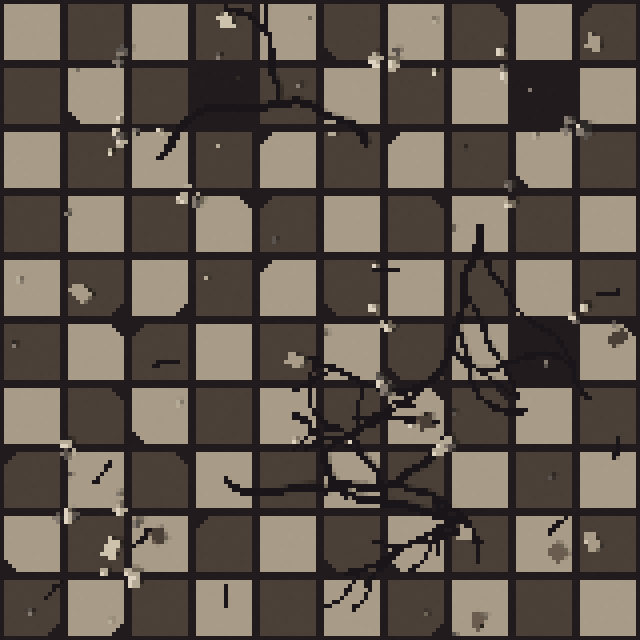
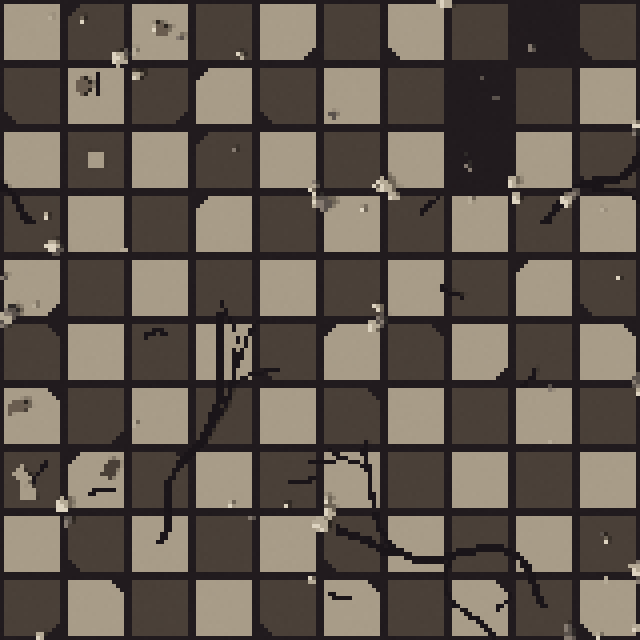
nerfed commanding to use energy based on how many spaces they move, also added quality of life features such as blinking lights for losing energy

diff --git a/mnt_tmp/shrink_debris.py b/mnt_tmp/shrink_debris.py
@@ -1,0 +1,39 @@
+import sys
+from PIL import Image
+SCALE=float(sys.argv[1])
+base=Image.open('mnt_tmp/Ruined_base.png').convert('RGB')
+cur=Image.open('art/skins/boards/Ruined.png').convert('RGB')
+W=160
+diff=[[max(abs(a-b) for a,b in zip(base.getpixel((x,y)),cur.getpixel((x,y))))>24 for x in range(W)] for y in range(W)]
+seen=set(); comps=[]
+for y in range(W):
+  for x in range(W):
+    if diff[y][x] and (x,y) not in seen:
+      st=[(x,y)]; seen.add((x,y)); c=[]
+      while st:
+        p=st.pop(); c.append(p)
+        for dx in (-1,0,1):
+          for dy in (-1,0,1):
+            q=(p[0]+dx,p[1]+dy)
+            if 0<=q[0]<W and 0<=q[1]<W and diff[q[1]][q[0]] and q not in seen: seen.add(q); st.append(q)
+      comps.append(c)
+out=cur.copy()
+for c in comps:
+  if len(c)<=3: continue
+  members=set(c)
+  for p in c: out.putpixel(p, base.getpixel(p))
+  cx=sum(p[0] for p in c)/len(c)+0.5; cy=sum(p[1] for p in c)/len(c)+0.5
+  xs=[p[0] for p in c]; ys=[p[1] for p in c]
+  for y in range(min(ys),max(ys)+1):
+    for x in range(min(xs),max(xs)+1):
+      hits={}
+      for i in range(3):
+        for j in range(3):
+          sx=int((x+(i+0.5)/3-cx)/SCALE+cx); sy=int((y+(j+0.5)/3-cy)/SCALE+cy)
+          if (sx,sy) in members:
+            col=cur.getpixel((sx,sy)); hits[col]=hits.get(col,0)+1
+      if sum(hits.values())>=4: out.putpixel((x,y), max(hits,key=hits.get))
+out.save('mnt_tmp/Ruined_small.png')
+side=Image.new('RGB',(970,480),(255,255,255))
+side.paste(cur.resize((480,480),Image.NEAREST),(0,0)); side.paste(out.resize((480,480),Image.NEAREST),(490,0))
+side.save('mnt_tmp/Ruined_small_compare.png')

diff --git a/docs/GAME_DESIGN.md b/docs/GAME_DESIGN.md
@@ -22,7 +22,7 @@ Turns are energy-based:
 - **Movement** — the king gets 1 free move per turn, like a chess king: one tile in any of the 8 directions.
 - **Actions** — each action can be used **once per turn**, in any order, as long as there's energy to pay for it (prevents spam; used actions fade out in the action panel):
    - **Fire shotgun** — 1 energy
-   - **Command a piece** — 1 energy (move or attack with one of your pieces using its normal chess movement)
+   - **Command a piece** — 1 energy per 2 tiles the piece travels, rounded up (min 1; a knight's jump counts as 2) — move or attack with one of your pieces using its normal chess movement
    - **Reload** — 1 energy, refills the shotgun's magazine
    - **Use special** — 2 energy
    - **Summon a piece** — the piece's cost (see Energy); placed on an empty tile within one tile of the king. Opening the summon menu is free.
@@ -64,7 +64,8 @@ Campaign battles run the enemy AI (`ServerScriptService.AI.EnemyAIService`, tuni
 - Each player gains 1 energy at the start of every turn (including the first), up to 8.
 - Starting energy is 0. *(Assumption — confirm.)*
 - Summon costs: Pawn 1, Knight 2, Bishop 2, Rook 3, Queen 6 (raised from 4 in Nov 2026 so the Queen is harder to get).
-- Action costs: Fire 1, Command 1, Reload 1, Special 2, Ultimate 0.
+- Action costs: Fire 1, Command 1+ (tiles ÷ 2, rounded up; `CombatConfig.COMMAND_TILES_PER_ENERGY`), Reload 1, Special 2, Ultimate 0. Only command tiles the player can afford are highlighted.
+- Hovering an action button, or having an action selected, makes the energy it will spend flash between red and the empty-bar color on the energy bar; for a command, the hovered target sets the cost.
 - Only one active Queen per king.
 - Energy is also spent on fusion (cost undecided).
 
